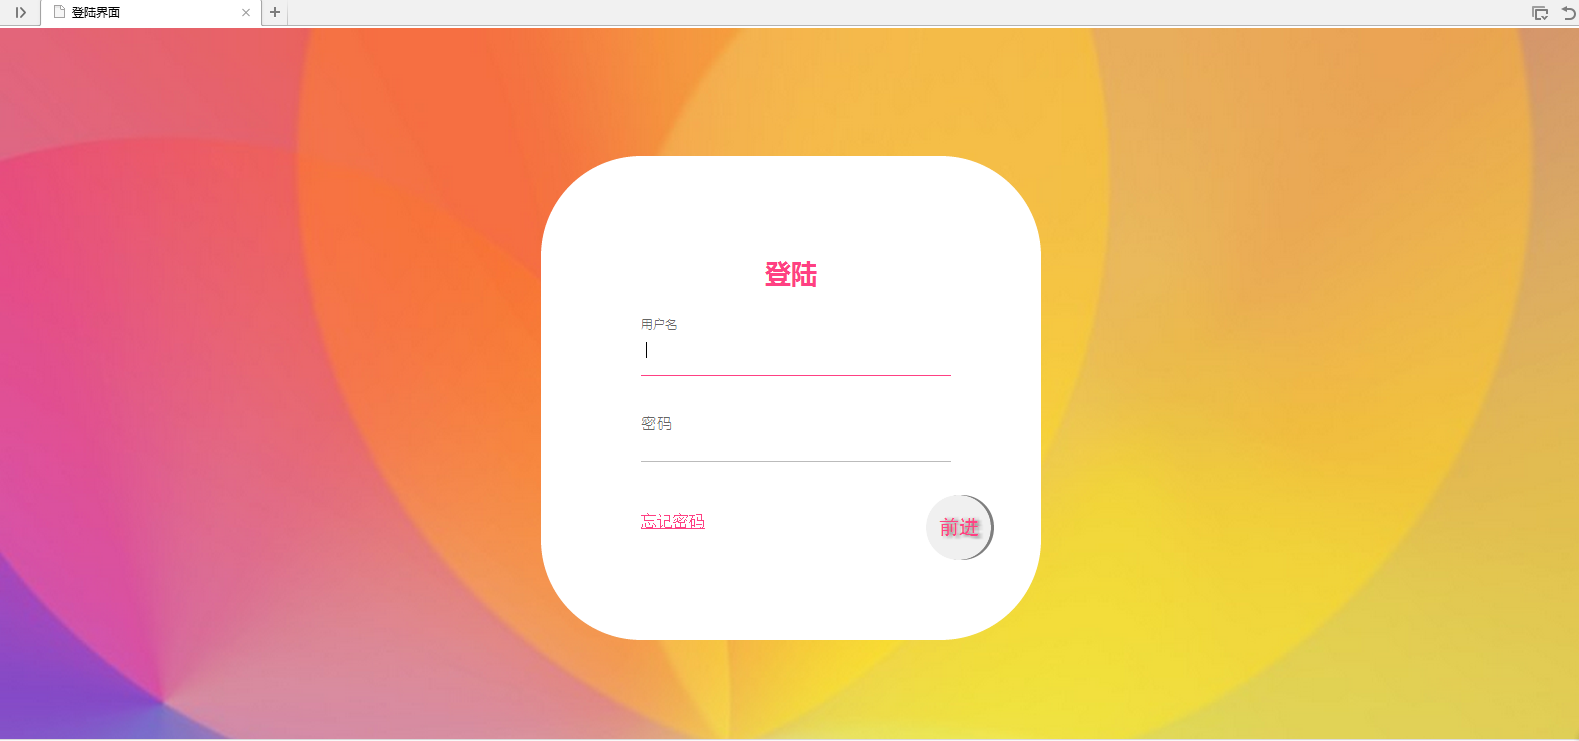
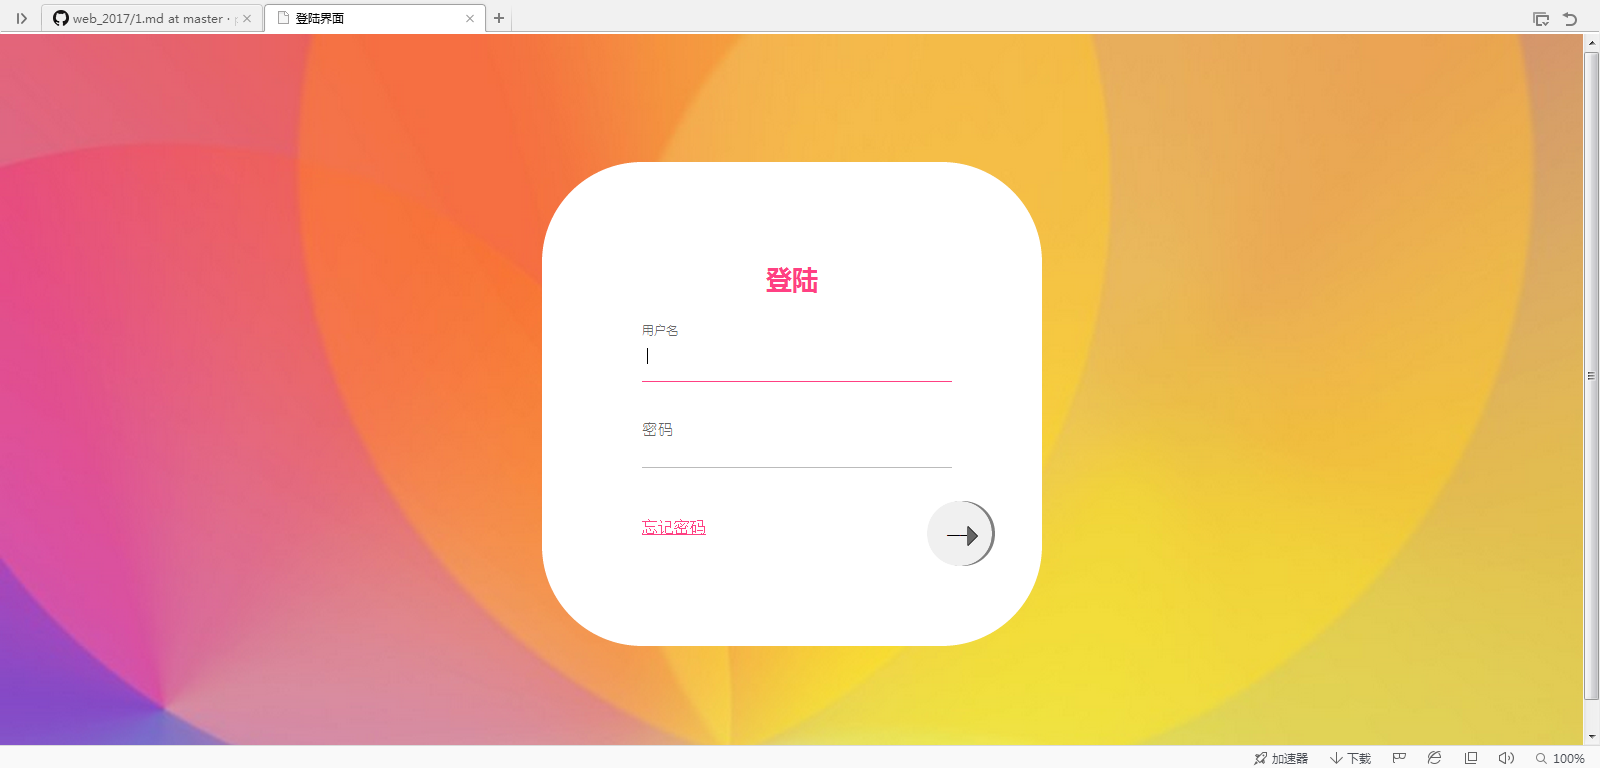
alter F1

diff --git a/F1/task2/STU.html b/F1/task2/STU.html
@@ -1,0 +1,59 @@
+<!DOCTYPE html>
+<html> 
+<head> 
+
+	<meta http-equiv="Content-Type" content="text/html; charset=utf-16"> 
+	<title>学生信息管理</title> 
+	
+	<link href="style.css" rel="stylesheet" type="text/css" />
+	<script src="function.js" type="text/javascript"></script>
+	
+</head>
+
+	
+	
+<body>	
+ 	<div class="input">
+		<h1>学生信息登记</h1>
+		
+		<fieldset><legend>添加</legend>
+		<label for="">学生姓名：<input type="text"></label>
+		学号：<input type="text">
+		年级：<input type="text">
+		所学专业：<input type="text">
+		学生性别：
+		<input type="radio" >男
+		<input type="radio" >女
+		<button type="button" onclick="AddStu(),Alert()" class="buttonstyle">提交</button>
+		</fieldset>
+		<br/> 
+		
+		<fieldset><legend>搜索</legend>
+		请输入学号：<input type="text">
+		<button type="button" onclick="SearchStu(number)" class="buttonstyle">搜索</button>
+		</fieldset>
+		<br/>
+		
+		<fieldset><legend>删除</legend>
+		所要删除的学号：<input type="text">
+		<button type="button" onclick="Alert()" class="buttonstyle">删除</button>
+		</fieldset>
+		<br/>
+		
+		<fieldset><legend>修改</legend>
+		所要查询的学号：<input type="text">
+		<button type="button" onclick="Alert()"  class="buttonstyle">查询并修改</button>
+		</fieldset>
+		
+ 	</div> 
+	<br/><br/><br/>
+	<table>
+        <thead>
+            <tr><th>学生姓名</th><th>学号</th><th>年级</th><th>所学专业</th><th>性别</th></tr>
+        </thead>
+        <tbody>
+        </tbody>
+	</table>
+ 	 
+ </body>
+ </html>

diff --git a/F1/task2/function.js b/F1/task2/function.js
@@ -1,0 +1,60 @@
+function myFunction()
+{
+document.getElementById("demo").innerHTML="My First JavaScript Function";
+}
+function Student[100](name,sex,number,grade,major){  
+	this.name = name ;       
+	this.sex = sex ;    
+	this.number = number ; 
+	this.grade = grade ;
+	this.major = major ;  
+	
+	this changName=changName;
+	this changSex=changSex;
+	this changNumber=changNumber;
+	this changGrade=changGrade;
+	this changMajor=changMajor;
+	
+function changName(name){
+	this.name=name;
+	}
+function changSex(sex){
+	this.sex=sex;
+	}
+function changNumber(number){
+	this.number=number;
+	}
+function changGrade(grade){
+	this.grade=grade;
+	}
+function changMajor(major){
+	this.major=major;
+	}
+}
+
+var LIST = document.querySelector('table');
+
+function AddStu(){
+	var STU=document.getElementsByTagName('input');
+        var x = '<td>'+STU[0].value+
+                '</td><td>'+STU[1].value+
+                '</td><td>'+STU[2].value+
+                '</td><td>'+STU[3].value+
+                '</td><td>'+STU[4].value+
+                '</td>';
+        var y = document.createElement('tr');
+
+        y.innerHTML = x;
+}
+
+function SearchStu(number){
+	for(var i=0;i<STU[].length;i++){
+		if(STU[i].number==number)
+			return STU[i];
+	}
+}
+
+function Alert(){
+	alert('操作成功！');
+}
+

diff --git a/F1/task1/LOG.html b/F1/task1/LOG.html
@@ -1,5 +1,5 @@
-<!DOCTYPE html PUBLIC "-//W3C//DTD XHTML 1.0 Strict//EN" "http://www.w3.org/TR/xhtml1/DTD/xhtml1-strict.dtd">
-<ml xmlns="http://www.w3.org/1999/xhtml" lang="zh-CN">
+<!DOCTYPE html>
+<html>
 <head>
 
 	<meta http-equiv="Content-Type" content="text/html; charset=utf-16">
@@ -20,7 +20,7 @@
 			<input class="formdetail" type="password" required="required" />
 			<label class="labelstyle">密码</label>
 		</div>
-		<button class="buttonbg"><p>前进</p>
+		<button class="buttonbg"><span id="arrow">——</span>
     </button>
 		<a href="#"> 忘记密码 </a>
 	</div>

diff --git a/F1/task2/style.css b/F1/task2/style.css
@@ -1,18 +1,24 @@
 body{
 	text-align: center;
 }
+
 .input{
  	font-size: 13px;
  }
-#showinformation{
- 	font-size: 15px;
- 	background-color: #000;
+ 
+table{
+	width: 1580px;
+	border: 1px solid #777;
+	border-collapse: collapse;         
 }
-#showinformation div div{
- 	width: 300px;
- 	float: left;
- 	background-color: #ddd;
+
+table th, table td {
+	width: 120px;
+    border: 1px solid gray;
+	text-align:center;           
 }
+
 .buttonstyle{
 	cursor: pointer;
 }
+

diff --git a/F1/task1/style.css b/F1/task1/style.css
@@ -83,9 +83,21 @@ body {
 
 }
 
-.buttonbg p{
-	font-size: 20px;
-	font-family: "黑体";
-	color:#FF4083;
-	text-shadow: 3px 1px 5px #666;
+#arrow{
+	position: relative;
 }
+#arrow:after, #arrow:before {
+	position: absolute;
+	border: 10px dashed transparent;
+	border-left: 10px dashed #666;
+	width: 5px;
+	height: 0;
+	top: 0;
+	right: -20px;
+	content: ' ';
+}
+#arrow:before {
+	border-left-color: #000;
+	right: -21px;
+}
+
